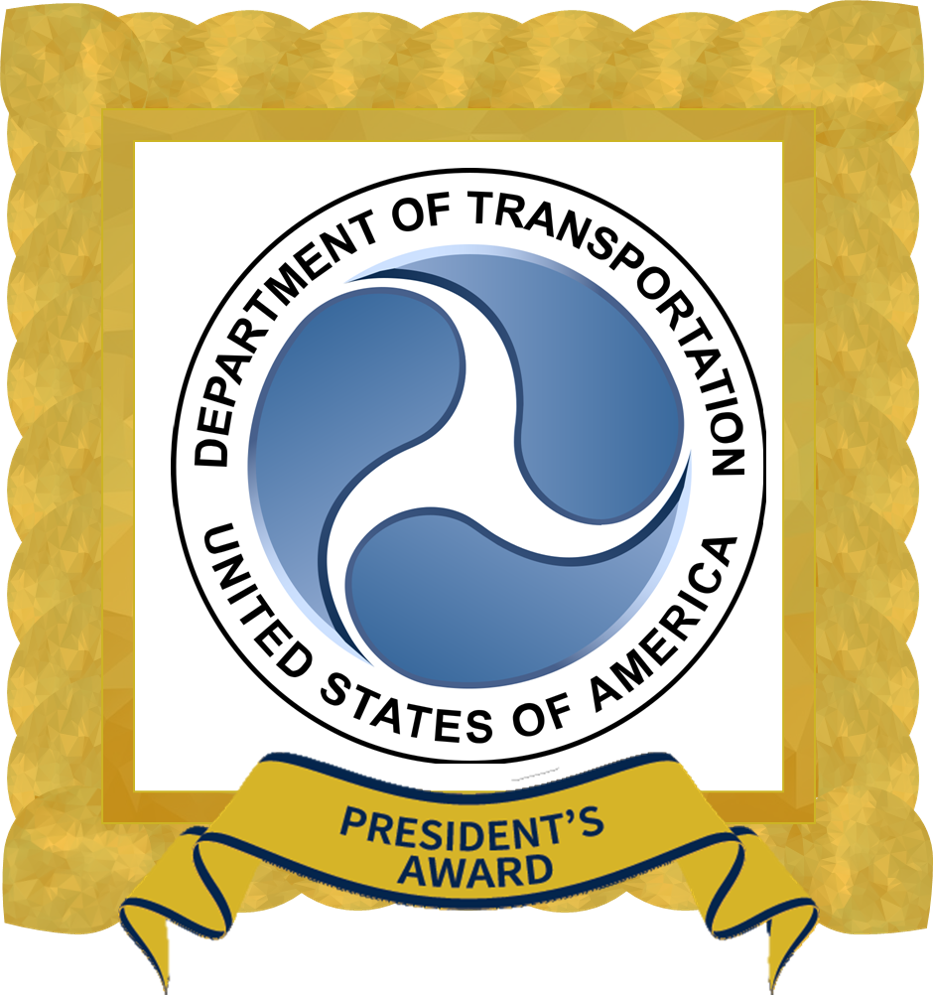
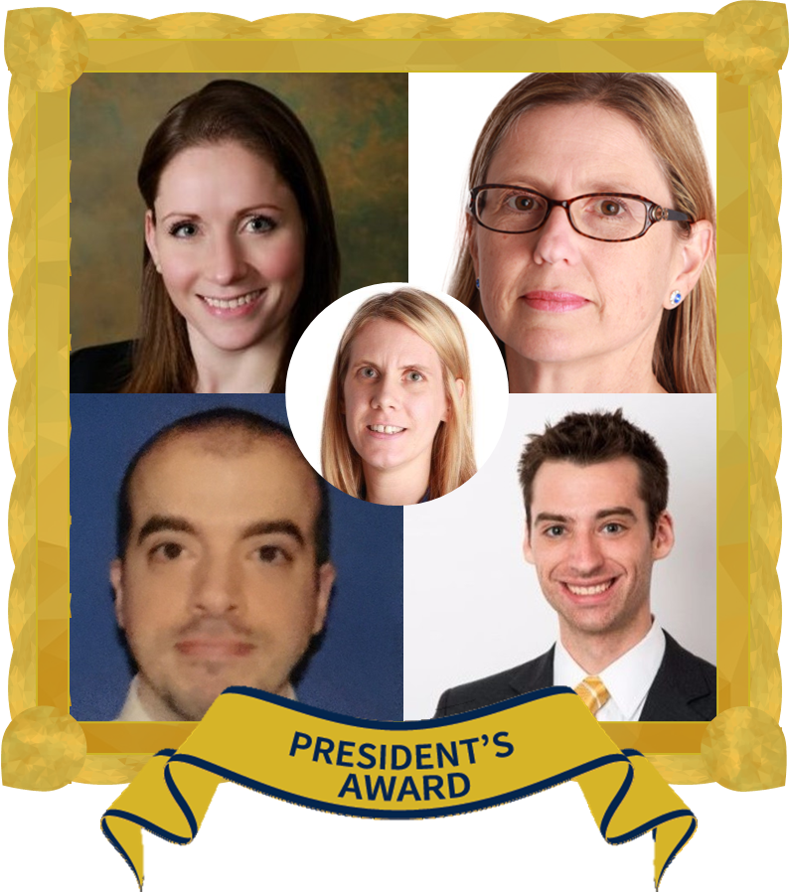
update DoT photos and headshots

diff --git a/_includes/GoG-agency.html b/_includes/GoG-agency.html
@@ -1,37 +1,17 @@
 
 
 <!--PRESIDENT'S CARD-->
-{% if GoG_winners.category == "President's" and GoG_winners.single %}
+  {% if GoG_winners.award == "President's" %}
   <div class="usa-width-one-third usa-media_block item {{ GoG_winners.category }} {{ GoG_winners.story }}"   style="margin-right:0;margin-bottom:15px;margin-left:10px;">
-    <div class="container-GoG">
-      <img class="card-image-gog" src="{{ site.baseurl }}{{ GoG_winners.image }}" alt="Avatar" class="image">
-        <div class="winner-text">
-          <div id="winner-left">
-            <p class="name-text" style="margin-bottom:9px;line-height:1;"><b>{{ GoG_winners.name}}</b></p>
-            <p style="margin-top:0;margin-bottom:0;" class="card-tag">{{ GoG_winners.agency }}</p>
-        </div> <!--close left div-->
-        <div id="winner-right">
-        <img
-        src="{{ site.baseurl }}/img/GoG/banners/president-banner.png">
-        style="height:75px;float:right;"><br>
-      </div><!--close right div-->
-  </div><!--close winner text-->
-  <div class="overlay">
-  <div class="text">
-    <p style="margin-top:0;"><b>{{ GoG_winners.name}}, <br></b>
-        <i>{{ GoG_winners.title}}</i></p>
-        <p style="font-size:.8em;">{{ GoG_winners.description }}</p>
-        {% if GoG_winners.award == "Agency" %}
-            <p id="agency-winner-border" class="card-tag"><b>{{ GoG_winners.award }} Award</b></p>
-        {% elsif GoG_winners.award == "Council" %}
-            <p id="council-winner-border"><b>{{ GoG_winners.award }} Award</b></p>
-        {% elsif GoG_winners.award == "President's" %}
-            <p id="president-winner-border" class="card-tag"><b>{{ GoG_winners.award }} Award</b></p>
-        {% endif %}
-  </div><!--close text-->
-  </div><!--close overlay-->
-  </div><!--close container-->
-</div><!--close one third-->
+    <a style="color:black;" href="{{ site.baseurl }}{{ GoG_winners.permalink }}">
+    <div class="container-GoG-pres">
+       <center><img class="card-image-gog-presidents gray" src="{{ site.baseurl }}{{ GoG_winners.image }}" alt="Avatar" class="image"></center>
+       <div class="winner-text-president">
+         <center><p class="name-text" style="margin-bottom:9px;line-height:1;font-size:16px;"><b>{{ GoG_winners.name}}</b></p>
+         <p style="margin-top:0;margin-bottom:0;font-size:12px;" class="card-tag">{{ GoG_winners.agency }}</p></center>
+       </div><!--close winner text--></a>
+     </div><!--close container-GoG-->
+</div><!--close container-GoG-->
 {% endif %}
 <!--TEAM CARD-->
 {% if GoG_winners.team and GoG_winners.length == "short" %}

diff --git a/_sass/_winners.scss b/_sass/_winners.scss
@@ -218,7 +218,7 @@ background-color: #ffffff;
 
  .card-image-gog-presidents {
    object-fit:cover;
-   height: 247px;
+   height: 257px;
    margin: 0;
    padding: 0;
    width: 100%;

diff --git a/_GoG-presidents-winners/dot-takata.md b/_GoG-presidents-winners/dot-takata.md
@@ -5,15 +5,15 @@ permalink: /gearawards/takata-recall-team/
 
 name: Takata Recall Team
 agency: Department of Transportation
-image-1:  "/img/GoG/GoG-presidents.png"
+image-1:  "/img/GoG/headshots/k-k.jpg"
 image-1-name: Kerry Kolodziej
 image-2: "/img/GoG/headshots/fischer-k.jpg"
 image-2-name: Kara Fischer
 image-3: "/img/GoG/headshots/hench-s.jpg"
 image-3-name: Stephen Hench
-image-4: "/img/GoG/GoG-presidents.png"
+image-4: /img/GoG/headshots/sanchez-l.jpg"
 image-4-name: Lucia Sanchez
-image-5: "/img/GoG/GoG-presidents.png"
+image-5: "/img/GoG/headshots/labrana-n.jpg"
 image-5-name: Nicholas LaBruna
 
 location: "/img/GoG/location/DC.png"
@@ -35,4 +35,4 @@ For increasing awareness of nationwide airbag recalls through the creation of a
 remedy campaign. This team reinvented the way vehicle recalls are carried out,
 including providing manufacturers with a communication toolbox and developing
 innovative ways to lessen the impact on vehicle owners. Their efforts led to the
-replacement of 7.2M+ defective airbag parts in 2018, saving lives across the country.
+replacement of 7.2M+ defective air bag parts in 2018, saving lives across the country.

diff --git a/_GoG_winners/1-Barbara_Morton.md b/_GoG_winners/1-Barbara_Morton.md
@@ -5,7 +5,7 @@ team: no #mark no if an individual, NO CAPS
 single: yes #mark yes if an individual NO CAPS
 description: Transformed VA’s capabilities to provide veterans with an excellent customer experience. From real-time data and tools to strategic partnerships between communities, veterans, and families, Barbara’s work empowers veterans and VA employees to improve the veteran experience.
 category: va #reference list of categories
-agency: Department of Veterans Affairs #name of agency, capitalize first letter of each name
+agency:  Department of Veterans Affairs #name of agency, capitalize first letter of each name
 award: President's #type of award, either Agency, Council, or President's; this is case sensitive so make sure to match the options listed exactly. This section generates the format of the card
 Year: 2018 #variable to be used at later date
 image: "/img/GoG/headshots/morton-b.png"
